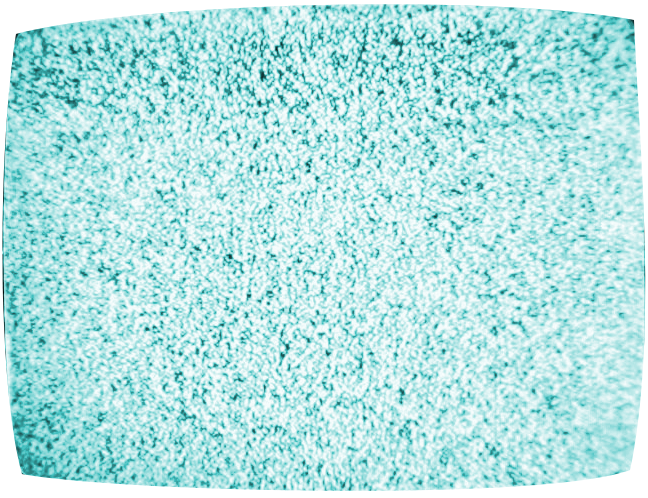
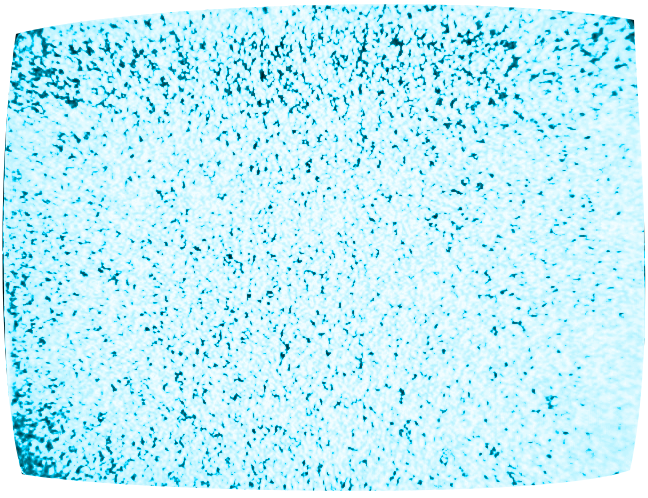
New colours
and fixed bug where channel buttons wouldn’t disappear

diff --git a/index.html b/index.html
@@ -19,10 +19,10 @@
     <div id="map_canvas"></div>
     <div id="kvak-logotype" class="kvak-ui persistent">KVAK TV</div>
     <div id="kvak-channel-group">
-      <div class="kvak-ui trigger" id="kvak-isolation-trigger">Isolation</div>
-      <div class="kvak-ui trigger" id="kvak-being-young-trigger">Being Young in Kivalina</div>
-      <div class="kvak-ui trigger" id="kvak-tradition-trigger">Tradition</div>
-      <div class="kvak-ui trigger" id="kvak-relocation-trigger">Relocation</div>
+      <div class="kvak-ui trigger persistent" id="kvak-isolation-trigger">Isolation</div>
+      <div class="kvak-ui trigger persistent" id="kvak-being-young-trigger">Being Young in Kivalina</div>
+      <div class="kvak-ui trigger persistent" id="kvak-tradition-trigger">Tradition</div>
+      <div class="kvak-ui trigger persistent" id="kvak-relocation-trigger">Relocation</div>
     </div>
     <div id="kvak-about-trigger" class="kvak-ui persistent trigger" rel="kvak-about">?</div>
     <div id="kvak-video" class="kvak-ui specific">

diff --git a/kvak.js b/kvak.js
@@ -117,11 +117,11 @@ $("#kvak-logotype").click(function(e) {
 });
 
 $("#kvak-isolation-trigger").click(function(e) {
-    $(".kvak-ui").not("#kvak-channel-group div").css("background-image", "url(tv-red.png)")
+    $(".kvak-ui").not("#kvak-channel-group div").css("background-image", "url(tv-yellow.png)")
 });
 
 $("#kvak-being-young-trigger").click(function(e) {
-    $(".kvak-ui").not("#kvak-channel-group div").css("background-image", "url(tv-green.png)")
+    $(".kvak-ui").not("#kvak-channel-group div").css("background-image", "url(tv-pink.png)")
 });
 
 $("#kvak-tradition-trigger").click(function(e) {
@@ -129,7 +129,7 @@ $("#kvak-tradition-trigger").click(function(e) {
 });
 
 $("#kvak-relocation-trigger").click(function(e) {
-    $(".kvak-ui").not("#kvak-channel-group div").css("background-image", "url(tv-purple.png)")
+    $(".kvak-ui").not("#kvak-channel-group div").css("background-image", "url(tv-green.png)")
 });
 
 hideOtherScreenElements();  hideControls();

diff --git a/styles.less b/styles.less
@@ -142,19 +142,19 @@ body {
 }
 
 #kvak-isolation-trigger {
-    background-image: url(tv-red.png);
+    background-image: url(tv-yellow.png);
 }
 
 #kvak-being-young-trigger {
-    background-image: url(tv-green.png);
+    background-image: url(tv-pink.png);
 }
 
-#kvak-tradition-tigger {
+#kvak-tradition-trigger {
     background-image: url(tv-blue.png);
 }
 
 #kvak-relocation-trigger {
-    background-image: url(tv-purple.png);
+    background-image: url(tv-green.png);
 }
 
 #kvak-login-trigger {
